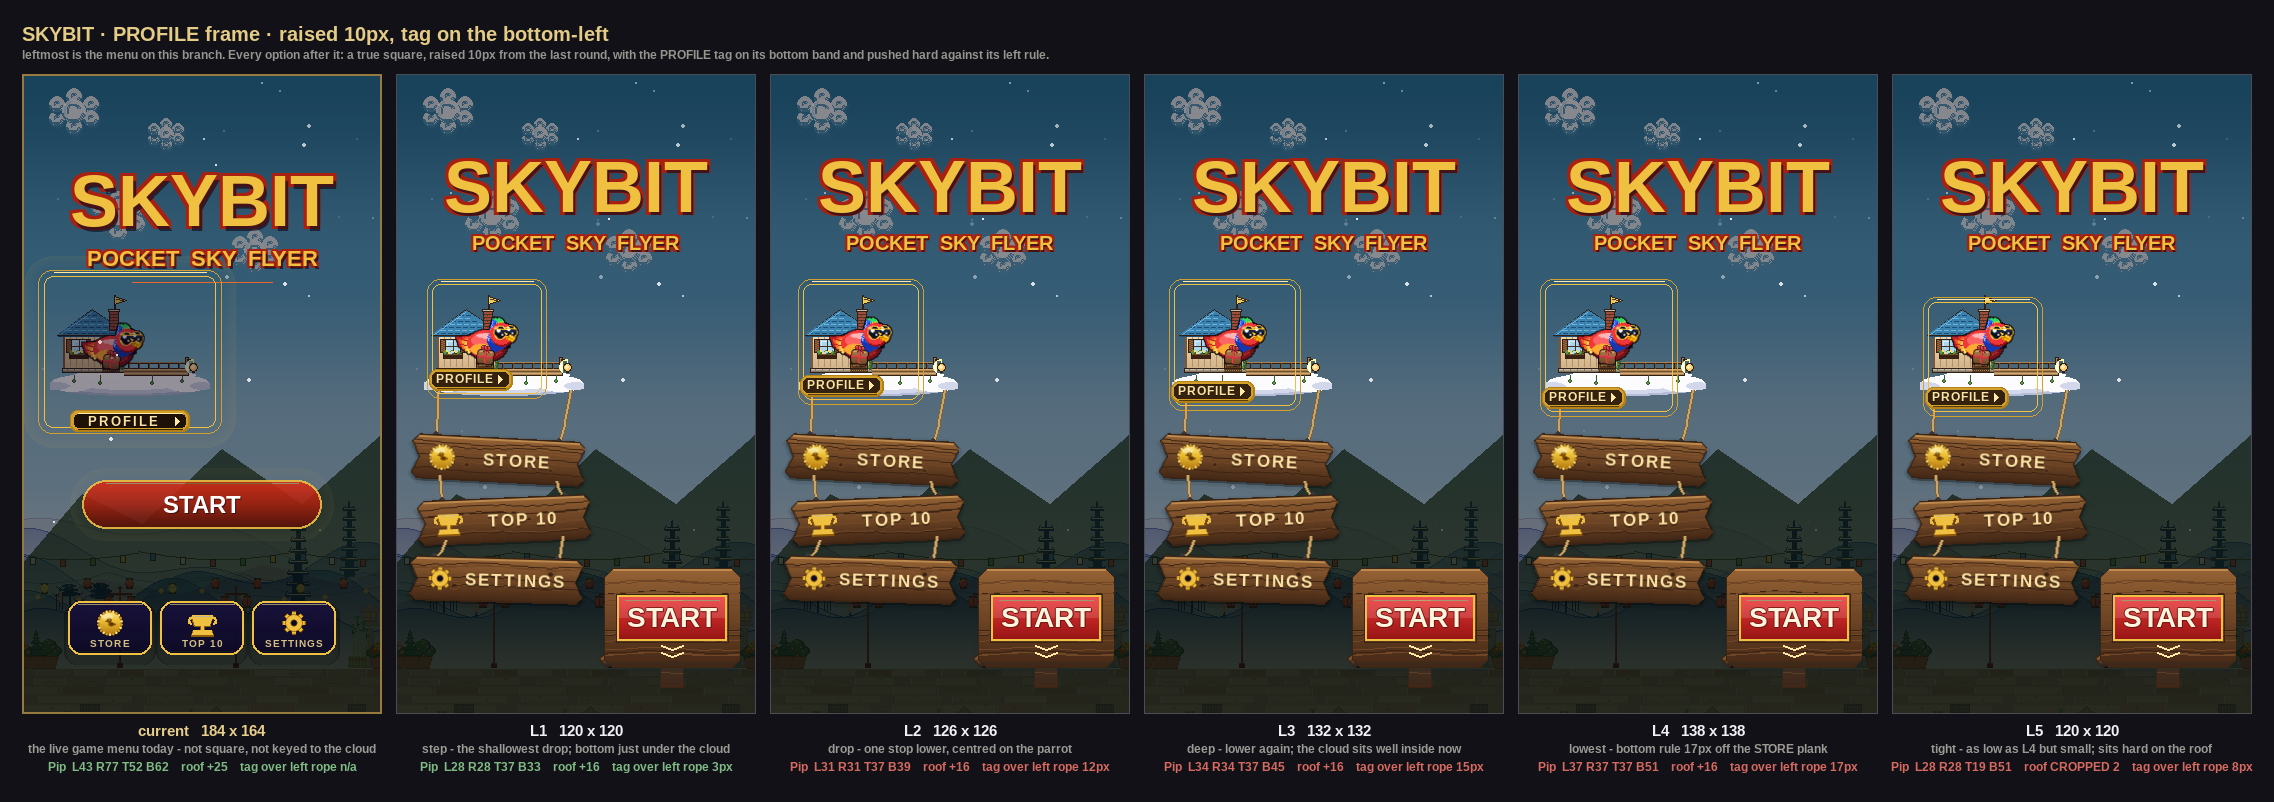
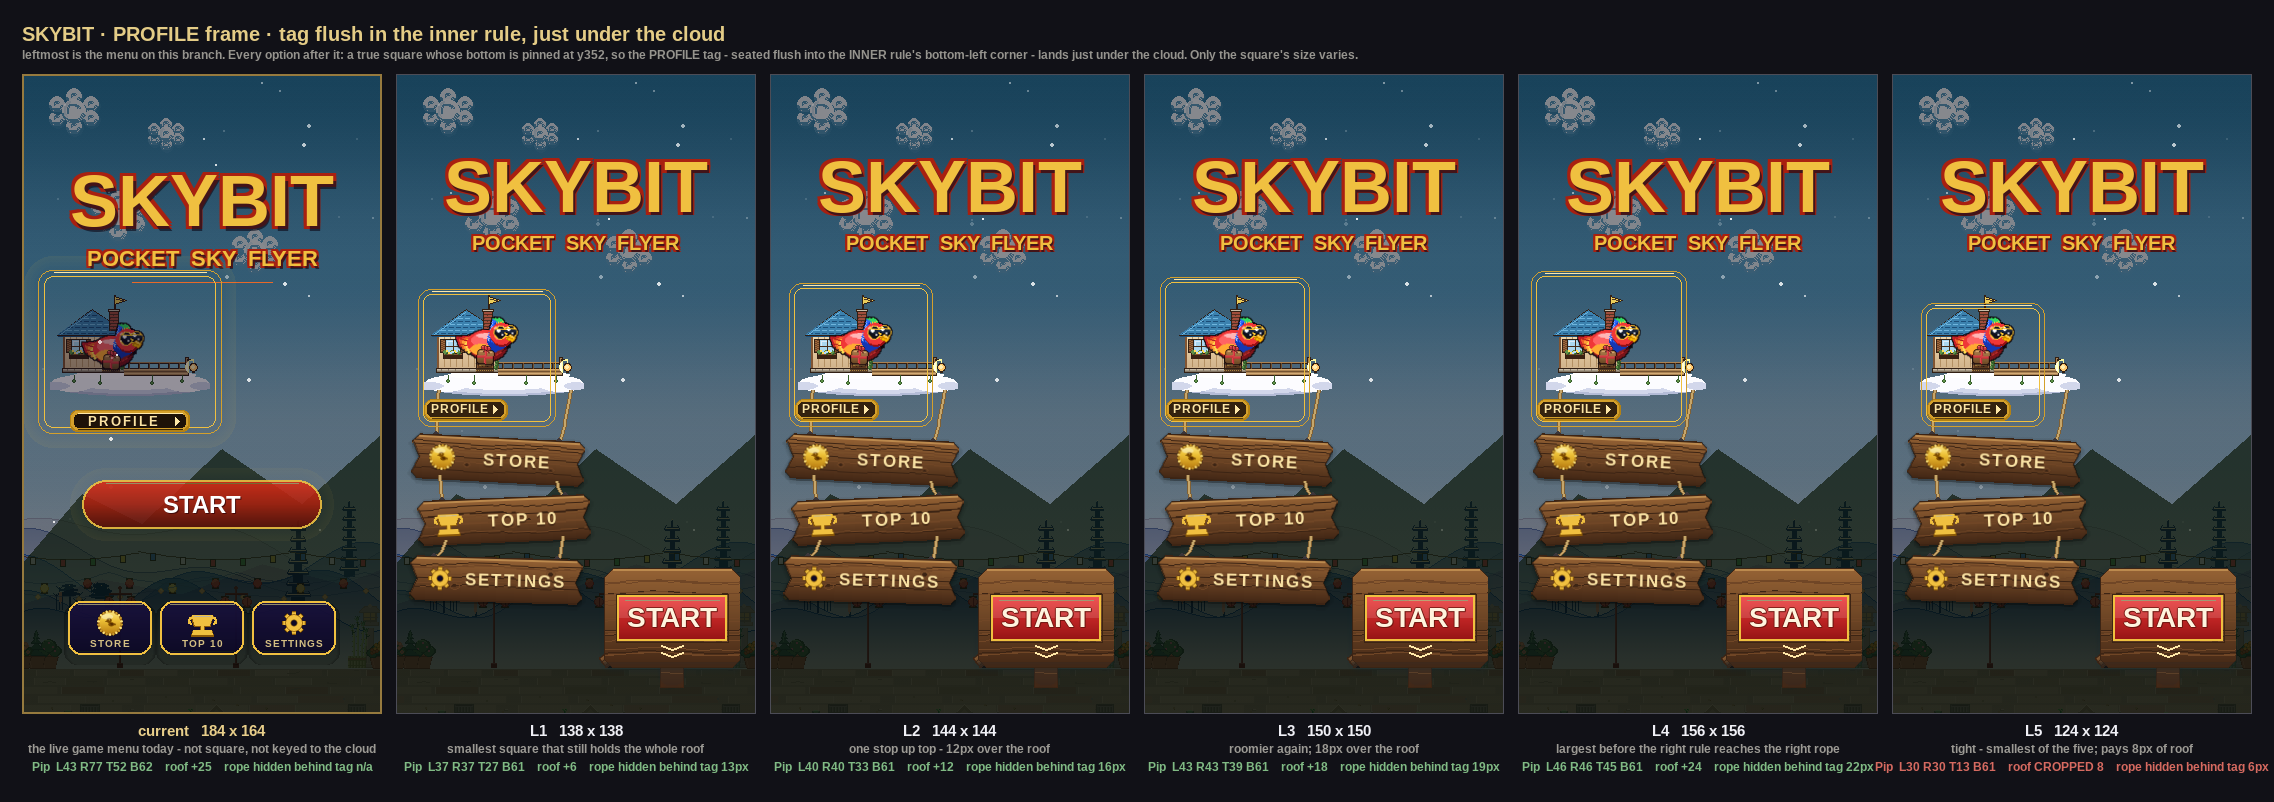
harbour-post: tag flush in the inner rule's corner, frames pinned to suit
The tag no longer laps the inner rule or floats near it. It is seated flush
into that rule's bottom-left corner: its first painted column sits directly
against the inner left run, its last row directly on the inner bottom run —
asserted per option, not eyeballed.

That turns the frame's position into a derived value rather than a choice.
Anchoring the tag three rows under the cloud's y321 base puts it at y325-346,
and a tag flush to the inner bottom rule then forces every frame's bottom to
y352. So all five share one bottom edge and differ only in side length, which
is what moves their tops: 138 -> 156 across L1..L4 for 6 -> 24px over the
cottage roof, plus L5 at 124 which buys the smallest square for 8px of roof.

y352 is 7px off the STORE plank, so this is as low as the frame goes.

Two things the sheet now reports. The left rope runs down x41 straight through
the tag's band, so the tag hides 13-22px of it (6 on L5) — occlusion, the rope
re-emerges below, and the frame draws after the chain so it passes behind. And
L4's right rule at x168 finally reaches the right rope's run, making it the
only option crossing both columns; L3 at x165 clears it by 1.6px.

Claude-Session: https://claude.ai/code/session_01HZruNdjCPrRs3WrJUvXQLo

diff --git a/tools/menu-design/profile_frame_square.py b/tools/menu-design/profile_frame_square.py
@@ -58,22 +58,27 @@ def _sq(left, top, side):
 # L1-L4 grow; L5 is the one that crops, and is the only way to be both low and
 # small.
 PRESETS = {
-    "L1": (_sq(31, 205, 120), "step - the shallowest drop; bottom just under the cloud"),
-    "L2": (_sq(28, 205, 126), "drop - one stop lower, centred on the parrot"),
-    "L3": (_sq(25, 205, 132), "deep - lower again; the cloud sits well inside now"),
-    "L4": (_sq(22, 205, 138), "lowest - bottom rule 17px off the STORE plank"),
-    "L5": (_sq(31, 223, 120), "tight - as low as L4 but small; sits hard on the roof"),
+    "L1": (_sq(22, 215, 138), "smallest square that still holds the whole roof"),
+    "L2": (_sq(19, 209, 144), "one stop up top - 12px over the roof"),
+    "L3": (_sq(16, 203, 150), "roomier again; 18px over the roof"),
+    "L4": (_sq(13, 197, 156), "largest before the right rule reaches the right rope"),
+    "L5": (_sq(29, 229, 124), "tight - smallest of the five; pays 8px of roof"),
 }
 def tag_for(fr):
     """On the frame's own bottom band, inside it, clear of the inner rule.
 
-    Left-aligned hard against the frame: at fr.left + 2 it laps the inner gold
-    rule and stops just short of the outer one, so it reads as bolted to that
-    side rather than floating near it.
+    Seated flush into the INNER rule's bottom-left corner — its first painted
+    column sits directly against the inner rule's left run, its last row
+    directly on that rule's bottom run. Nothing floats.
+
+    The frames are then sized so this lands the tag just under the cloud: with
+    every bottom pinned at y352 the tag occupies y325-346, three rows of sky
+    below the cloud's y321 base.
     """
+    inner = fr.inflate(-10, -10)
     t = pygame.Rect(0, 0, TAG_W, TAG_H)
-    t.left = fr.left + 2
-    t.bottom = fr.bottom - 8
+    t.left = inner.left + 1
+    t.bottom = inner.bottom - 1
     return t
 
 
@@ -280,13 +285,15 @@ def verify(slug, pip=None, sub=None):
     # min() over all four sides would just report that on purpose. Left is an
     # offset from the frame's outer rule; the others stay clearances.
     inner = fr.inflate(-10, -10)
-    fit = min(inner.right - 1 - (tag.right - 1), tag.top - inner.top,
-              inner.bottom - 1 - (tag.bottom - 1))
+    fit = min(inner.right - 1 - (tag.right - 1), tag.top - inner.top)
 
     # The frame's own bottom rule now runs below the cloud, so it crosses the
     # rope columns; report where rather than pretending it does not.
     crossings = sum(1 for sgn in (-1, 1)
                     if fr.left <= _rope_x(sgn, fr.bottom - 1) <= fr.right - 1)
+    # The right vertical can now reach past the right rope's run as well.
+    right_rope = min(_rope_x(1, y) - (fr.right - 1)
+                     for y in range(max(fr.top, 316), fr.bottom))
     return dict(
         side=(fr.width, fr.height),
         square=fr.width == fr.height,
@@ -301,7 +308,10 @@ def verify(slug, pip=None, sub=None):
         store_clear=STORE_TOP - (fr.bottom - 1),
         subtitle_clear=fr.top - sub,
         rope_crossings=crossings,
-        tag_left_of_frame=tag.left - fr.left,
+        right_rule_v_rope=round(right_rope, 1),
+        tag_touches_inner=(tag.left - 1 == inner.left,
+                           tag.bottom + 1 == inner.bottom),
+        tag_below_cloud=tag.top - (cloud.bottom - 1) - 1,
         tag_inside_frame=fit,
         tag_rope_clear=None if worst is None else round(worst, 1),
         tag_clears_pip=tag.top - max(py),
@@ -331,11 +341,11 @@ if __name__ == "__main__":
         sheet = pygame.Surface((PAD * 2 + n * CW + (n - 1) * GAP,
                                 PAD * 2 + HEAD + CH + LAB))
         sheet.fill((17, 17, 23))
-        sheet.blit(fh.render("SKYBIT · PROFILE frame · raised 10px, tag on the bottom-left",
+        sheet.blit(fh.render("SKYBIT · PROFILE frame · tag flush in the inner rule, just under the cloud",
                              True, (228, 204, 134)), (PAD, PAD))
         sheet.blit(fs.render(
-            "leftmost is the menu on this branch. Every option after it: a true square, raised 10px from the last round, "
-            "with the PROFILE tag on its bottom band and pushed hard against its left rule.",
+            "leftmost is the menu on this branch. Every option after it: a true square whose bottom is pinned at y352, "
+            "so the PROFILE tag - seated flush into the INNER rule's bottom-left corner - lands just under the cloud. Only the square's size varies.",
             True, (150, 148, 142)), (PAD, PAD + 26))
 
         y = PAD + HEAD
@@ -353,15 +363,16 @@ if __name__ == "__main__":
             sheet.blit(t, t.get_rect(midtop=(x + CW // 2, y + CH + 8)))
             c = fs.render(thesis, True, (156, 154, 148))
             sheet.blit(c, c.get_rect(midtop=(x + CW // 2, y + CH + 28)))
-            bad = (st["clip_px"] > 0 or st["roof_crop"] > 0
-                   or (st.get("tag_rope_clear") or 0) < -6)
+            # The rope running behind the tag is occlusion, not a defect —
+            # only a cut roof or a cut Pip turns the line red.
+            bad = st["clip_px"] > 0 or st["roof_crop"] > 0
             rc = st.get("tag_rope_clear")
-            m = ("Pip  L%d R%d T%d B%d    roof %s    tag over left rope %s"
+            m = ("Pip  L%d R%d T%d B%d    roof %s    rope hidden behind tag %s"
                  % (*st["pip"],
                     ("CROPPED %d" % st["roof_crop"]) if st["roof_crop"]
                     else "+%d" % st["cottage"][2],
                     "n/a" if rc is None else
-                    ("%dpx" % -rc if rc < 0 else "clear")))
+                    ("%dpx" % -rc if rc < 0 else "none")))
             c2 = fs.render(m, True, (214, 106, 96) if bad else (128, 186, 132))
             sheet.blit(c2, c2.get_rect(midtop=(x + CW // 2, y + CH + 46)))
 
